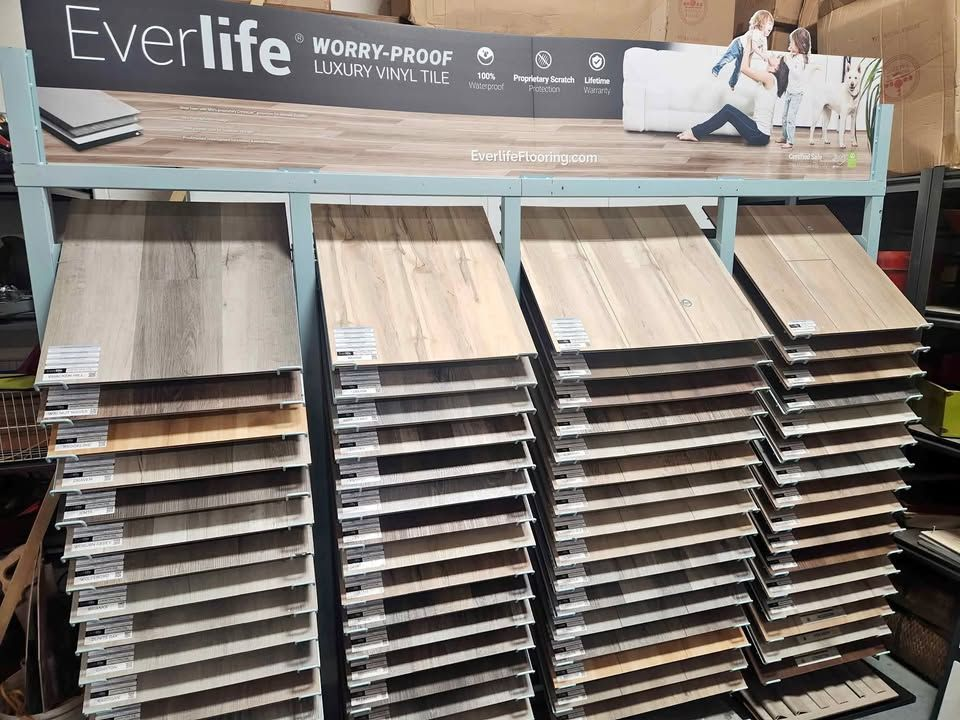
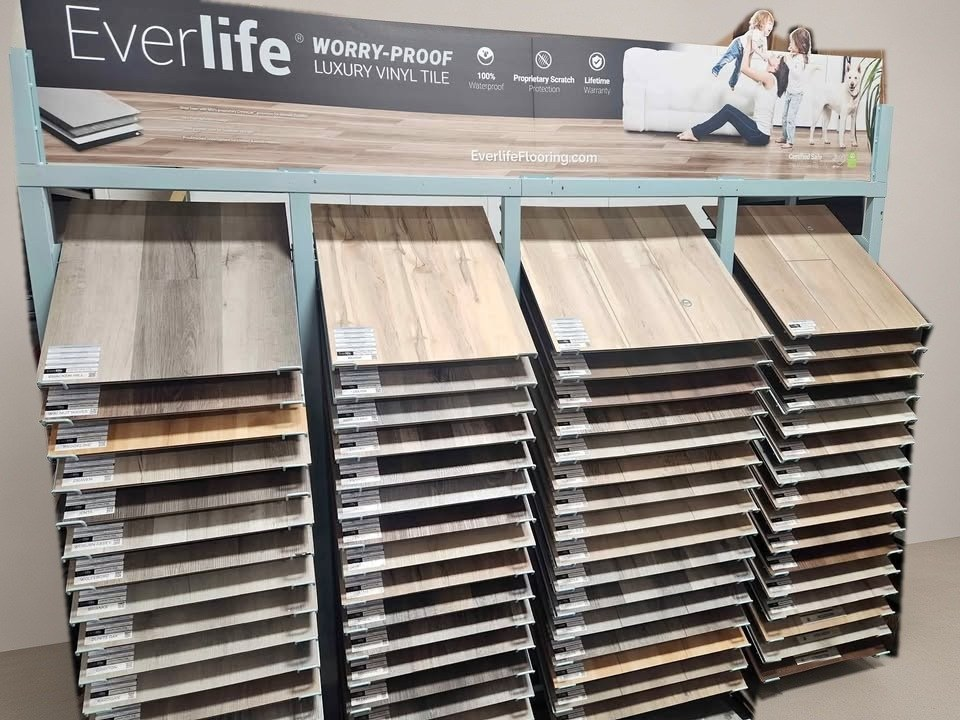
Use Greg-approved cleaned Everlife sample-rack photos on 5 LVP items

Changed region(s): [[0.2188, 0.0, 1.0, 1.0], [0.0, 0.0611, 0.0938, 1.0]]

diff --git a/catalog.html b/catalog.html
@@ -1923,7 +1923,7 @@ Nampa
 Check ahead for hours
 Text or call 208-606-0899</div><div class="more"><a href="#item-1087156237107500" data-i="0"><img src="1087156237107500-1.jpg" alt="LVP Flooring 22mil/20mil/12mil SPC Options - Starting from $2.59/sqft - Pad Attached w/ Warranty, photo 1" loading="lazy"></a><a href="#item-1087156237107500" data-i="1"><img src="1087156237107500-2.jpg" alt="LVP Flooring 22mil/20mil/12mil SPC Options - Starting from $2.59/sqft - Pad Attached w/ Warranty, photo 2" loading="lazy"></a><a href="#item-1087156237107500" data-i="2"><img src="1087156237107500-3.jpg" alt="LVP Flooring 22mil/20mil/12mil SPC Options - Starting from $2.59/sqft - Pad Attached w/ Warranty, photo 3" loading="lazy"></a><a href="#item-1087156237107500" data-i="3"><img src="1087156237107500-4.jpg" alt="LVP Flooring 22mil/20mil/12mil SPC Options - Starting from $2.59/sqft - Pad Attached w/ Warranty, photo 4" loading="lazy"></a></div></details>
 <div class="acts"><a class="b call" href="tel:+12086060899">Call</a><a class="b txt" href="sms:+12086060899">Text</a><a class="b fb" href="https://www.facebook.com/marketplace/item/1087156237107500/" target="_blank" rel="noopener">View on Facebook</a></div>
-</div></article><article class="item" id="item-1625727919130287" data-av="special_order" data-q="so" data-p="2.85" data-t="1" data-ph="1625727919130287-1.jpg,1625727919130287-2.jpg,1625727919130287-3.jpg,1625727919130287-4.jpg" data-s="prescott &quot;fauna&quot; lvp flooring - 6.5mm/20mil ($2.85/sqft) pad attached - 100% waterproof flooring $2.85/sqft, greater than 3000sqft available
+</div></article><article class="item" id="item-1625727919130287" data-av="special_order" data-q="so" data-p="2.85" data-t="1" data-ph="1625727919130287-1.jpg,1625727919130287-2.jpg,1625727919130287-3.jpg,1625727919130287-4.jpg,everlife-rack-B-clean.jpg" data-s="prescott &quot;fauna&quot; lvp flooring - 6.5mm/20mil ($2.85/sqft) pad attached - 100% waterproof flooring $2.85/sqft, greater than 3000sqft available
 prescott &quot;fauna&quot; 
 7&quot;x48&quot;, 6.5mm thick, 20mil wearlayer, attached ixpe pad, stone polymer composite (spc) construction 
 waterproof💦 kid proof🧒 pet friendly🐾 
@@ -1937,7 +1937,7 @@ check ahead for hours
 text or call 208-606-0899
 
 manufacturer: msi. msi is one of north america&#x27;s leading flooring suppliers, in business since 1975. ">
-<a class="ph" href="#item-1625727919130287" aria-label="See photos and details"><img src="1625727919130287-1t.jpg" alt="Prescott &quot;Fauna&quot; LVP Flooring - 6.5mm/20mil ($2.85/sqft) Pad Attached - 100% Waterproof" loading="lazy" width="400" height="300"><span class="pcount">4 photos</span><span class="tag special_order">Special order</span></a>
+<a class="ph" href="#item-1625727919130287" aria-label="See photos and details"><img src="1625727919130287-1t.jpg" alt="Prescott &quot;Fauna&quot; LVP Flooring - 6.5mm/20mil ($2.85/sqft) Pad Attached - 100% Waterproof" loading="lazy" width="400" height="300"><span class="pcount">5 photos</span><span class="tag special_order">Special order</span></a>
 <div class="body"><h3 class="gopen">Prescott &quot;Fauna&quot; LVP Flooring - 6.5mm/20mil ($2.85/sqft) Pad Attached - 100% Waterproof</h3>
 <div class="price">$2.85 <span class="u">/ sq ft</span></div><div class="qb so">Special order, 3,000+ sq ft available</div><div class="mfr">Manufacturer: <b>MSI</b></div>
 <p class="ex">$2.85/sqft, greater than 3000sqft available · Prescott &quot;Fauna&quot; · 7&quot;x48&quot;, 6.5mm thick, 20mil wearlayer, attached IXPE pad, stone polymer composite…</p>
@@ -1954,7 +1954,7 @@ Nampa
 Check ahead for hours
 Text or call 208-606-0899
 
-Manufacturer: MSI. MSI is one of North America&#x27;s leading flooring suppliers, in business since 1975.</div><div class="more"><a href="#item-1625727919130287" data-i="0"><img src="1625727919130287-1.jpg" alt="Prescott &quot;Fauna&quot; LVP Flooring - 6.5mm/20mil ($2.85/sqft) Pad Attached - 100% Waterproof, photo 1" loading="lazy"></a><a href="#item-1625727919130287" data-i="1"><img src="1625727919130287-2.jpg" alt="Prescott &quot;Fauna&quot; LVP Flooring - 6.5mm/20mil ($2.85/sqft) Pad Attached - 100% Waterproof, photo 2" loading="lazy"></a><a href="#item-1625727919130287" data-i="2"><img src="1625727919130287-3.jpg" alt="Prescott &quot;Fauna&quot; LVP Flooring - 6.5mm/20mil ($2.85/sqft) Pad Attached - 100% Waterproof, photo 3" loading="lazy"></a><a href="#item-1625727919130287" data-i="3"><img src="1625727919130287-4.jpg" alt="Prescott &quot;Fauna&quot; LVP Flooring - 6.5mm/20mil ($2.85/sqft) Pad Attached - 100% Waterproof, photo 4" loading="lazy"></a></div></details>
+Manufacturer: MSI. MSI is one of North America&#x27;s leading flooring suppliers, in business since 1975.</div><div class="more"><a href="#item-1625727919130287" data-i="0"><img src="1625727919130287-1.jpg" alt="Prescott &quot;Fauna&quot; LVP Flooring - 6.5mm/20mil ($2.85/sqft) Pad Attached - 100% Waterproof, photo 1" loading="lazy"></a><a href="#item-1625727919130287" data-i="1"><img src="1625727919130287-2.jpg" alt="Prescott &quot;Fauna&quot; LVP Flooring - 6.5mm/20mil ($2.85/sqft) Pad Attached - 100% Waterproof, photo 2" loading="lazy"></a><a href="#item-1625727919130287" data-i="2"><img src="1625727919130287-3.jpg" alt="Prescott &quot;Fauna&quot; LVP Flooring - 6.5mm/20mil ($2.85/sqft) Pad Attached - 100% Waterproof, photo 3" loading="lazy"></a><a href="#item-1625727919130287" data-i="3"><img src="1625727919130287-4.jpg" alt="Prescott &quot;Fauna&quot; LVP Flooring - 6.5mm/20mil ($2.85/sqft) Pad Attached - 100% Waterproof, photo 4" loading="lazy"></a><a href="#item-1625727919130287" data-i="4"><img src="everlife-rack-B-clean.jpg" alt="Prescott &quot;Fauna&quot; LVP Flooring - 6.5mm/20mil ($2.85/sqft) Pad Attached - 100% Waterproof, photo 5" loading="lazy"></a></div></details>
 <div class="acts"><a class="b call" href="tel:+12086060899">Call</a><a class="b txt" href="sms:+12086060899">Text</a><a class="b fb" href="https://www.facebook.com/marketplace/item/1625727919130287/" target="_blank" rel="noopener">View on Facebook</a></div>
 </div></article><article class="item" id="item-1725865535300365" data-av="special_order" data-q="so" data-p="2.59" data-t="1" data-ph="1725865535300365-1.jpg,1725865535300365-2.jpg,1725865535300365-3.jpg" data-v="v-1725865535300365.mp4" data-s="everlife worry-proof luxury vinyl flooring 7x48 5mm/12mil cyrus collection lvp lvt ($2.59/sqft) flooring $2.59/sqft for 5mm/12mil
 $2.85/sqft for 6.5mm/20mil
@@ -2026,7 +2026,7 @@ This flooring is 100% waterproof and backed by a lifetime residential warranty f
 
 Manufacturer: MSI. MSI is one of North America&#x27;s leading flooring suppliers, in business since 1975.</div><div class="more"><a href="#item-1377741024516244" data-i="0"><img src="1377741024516244-1.jpg" alt="&quot;Brookline&quot; - Everlife Cyrus LVP Flooring - 7x48 - 5mm/12mil - Pad Attached - $2.59/sqft, photo 1" loading="lazy"></a><a href="#item-1377741024516244" data-i="1"><img src="1377741024516244-2.jpg" alt="&quot;Brookline&quot; - Everlife Cyrus LVP Flooring - 7x48 - 5mm/12mil - Pad Attached - $2.59/sqft, photo 2" loading="lazy"></a><a href="#item-1377741024516244" data-i="2"><img src="1377741024516244-3.jpg" alt="&quot;Brookline&quot; - Everlife Cyrus LVP Flooring - 7x48 - 5mm/12mil - Pad Attached - $2.59/sqft, photo 3" loading="lazy"></a><a href="#item-1377741024516244" data-i="3"><img src="1377741024516244-4.jpg" alt="&quot;Brookline&quot; - Everlife Cyrus LVP Flooring - 7x48 - 5mm/12mil - Pad Attached - $2.59/sqft, photo 4" loading="lazy"></a></div></details>
 <div class="acts"><a class="b call" href="tel:+12086060899">Call</a><a class="b txt" href="sms:+12086060899">Text</a><a class="b fb" href="https://www.facebook.com/marketplace/item/1377741024516244/" target="_blank" rel="noopener">View on Facebook</a></div>
-</div></article><article class="item" id="item-1067900742606296" data-av="special_order" data-q="so" data-p="2.59" data-t="1" data-ph="1067900742606296-1.jpg,1067900742606296-2.jpg,1067900742606296-3.jpg,1067900742606296-4.jpg" data-s="&quot;walnut waves&quot; - lvp flooring - msi cyrus collection - 7x48 - pad attached - $2.59/sqft luxury vinyl flooring $2.59/sqft, 7x48 rigid core plank, 5mm, 12mil, 1mm ixpe attached pad
+</div></article><article class="item" id="item-1067900742606296" data-av="special_order" data-q="so" data-p="2.59" data-t="1" data-ph="1067900742606296-1.jpg,1067900742606296-2.jpg,1067900742606296-3.jpg,1067900742606296-4.jpg,everlife-rack-C-clean.jpg" data-s="&quot;walnut waves&quot; - lvp flooring - msi cyrus collection - 7x48 - pad attached - $2.59/sqft luxury vinyl flooring $2.59/sqft, 7x48 rigid core plank, 5mm, 12mil, 1mm ixpe attached pad
 
 other colors and styles available.
 
@@ -2039,7 +2039,7 @@ text or call 208-606-0899
 this flooring is 100% waterproof and backed by a lifetime residential warranty for added peace of mind. as part of the cyrus collection, it features an msi exclusive crystalux™ protection layer, providing durability and longevity, protecting against everyday wear, allowing floors to stay beautiful and easy to maintain. with “no acclimation” technology, this rigid core flooring allows for buy today, install today convenience.
 
 manufacturer: msi. msi is one of north america&#x27;s leading flooring suppliers, in business since 1975. ">
-<a class="ph" href="#item-1067900742606296" aria-label="See photos and details"><img src="1067900742606296-1t.jpg" alt="&quot;Walnut Waves&quot; - LVP Flooring - MSI Cyrus Collection - 7x48 - Pad Attached - $2.59/sqft Luxury Vinyl" loading="lazy" width="400" height="300"><span class="pcount">4 photos</span><span class="tag special_order">Special order</span></a>
+<a class="ph" href="#item-1067900742606296" aria-label="See photos and details"><img src="1067900742606296-1t.jpg" alt="&quot;Walnut Waves&quot; - LVP Flooring - MSI Cyrus Collection - 7x48 - Pad Attached - $2.59/sqft Luxury Vinyl" loading="lazy" width="400" height="300"><span class="pcount">5 photos</span><span class="tag special_order">Special order</span></a>
 <div class="body"><h3 class="gopen">&quot;Walnut Waves&quot; - LVP Flooring - MSI Cyrus Collection - 7x48 - Pad Attached - $2.59/sqft Luxury Vinyl</h3>
 <div class="price">$2.59 <span class="u">/ sq ft</span></div><div class="qb so">Special order, large quantities available</div><div class="mfr">Manufacturer: <b>MSI</b></div>
 <p class="ex">$2.59/sqft, 7x48 rigid core plank, 5mm, 12mil, 1mm IXPE attached pad · Other colors and styles available. · This flooring is 100% waterproof and…</p>
@@ -2055,9 +2055,9 @@ Text or call 208-606-0899
 
 This flooring is 100% waterproof and backed by a lifetime residential warranty for added peace of mind. As part of the Cyrus Collection, it features an MSI exclusive CrystaLux™ protection layer, providing durability and longevity, protecting against everyday wear, allowing floors to stay beautiful and easy to maintain. With “no acclimation” technology, this rigid core flooring allows for buy today, install today convenience.
 
-Manufacturer: MSI. MSI is one of North America&#x27;s leading flooring suppliers, in business since 1975.</div><div class="more"><a href="#item-1067900742606296" data-i="0"><img src="1067900742606296-1.jpg" alt="&quot;Walnut Waves&quot; - LVP Flooring - MSI Cyrus Collection - 7x48 - Pad Attached - $2.59/sqft Luxury Vinyl, photo 1" loading="lazy"></a><a href="#item-1067900742606296" data-i="1"><img src="1067900742606296-2.jpg" alt="&quot;Walnut Waves&quot; - LVP Flooring - MSI Cyrus Collection - 7x48 - Pad Attached - $2.59/sqft Luxury Vinyl, photo 2" loading="lazy"></a><a href="#item-1067900742606296" data-i="2"><img src="1067900742606296-3.jpg" alt="&quot;Walnut Waves&quot; - LVP Flooring - MSI Cyrus Collection - 7x48 - Pad Attached - $2.59/sqft Luxury Vinyl, photo 3" loading="lazy"></a><a href="#item-1067900742606296" data-i="3"><img src="1067900742606296-4.jpg" alt="&quot;Walnut Waves&quot; - LVP Flooring - MSI Cyrus Collection - 7x48 - Pad Attached - $2.59/sqft Luxury Vinyl, photo 4" loading="lazy"></a></div></details>
+Manufacturer: MSI. MSI is one of North America&#x27;s leading flooring suppliers, in business since 1975.</div><div class="more"><a href="#item-1067900742606296" data-i="0"><img src="1067900742606296-1.jpg" alt="&quot;Walnut Waves&quot; - LVP Flooring - MSI Cyrus Collection - 7x48 - Pad Attached - $2.59/sqft Luxury Vinyl, photo 1" loading="lazy"></a><a href="#item-1067900742606296" data-i="1"><img src="1067900742606296-2.jpg" alt="&quot;Walnut Waves&quot; - LVP Flooring - MSI Cyrus Collection - 7x48 - Pad Attached - $2.59/sqft Luxury Vinyl, photo 2" loading="lazy"></a><a href="#item-1067900742606296" data-i="2"><img src="1067900742606296-3.jpg" alt="&quot;Walnut Waves&quot; - LVP Flooring - MSI Cyrus Collection - 7x48 - Pad Attached - $2.59/sqft Luxury Vinyl, photo 3" loading="lazy"></a><a href="#item-1067900742606296" data-i="3"><img src="1067900742606296-4.jpg" alt="&quot;Walnut Waves&quot; - LVP Flooring - MSI Cyrus Collection - 7x48 - Pad Attached - $2.59/sqft Luxury Vinyl, photo 4" loading="lazy"></a><a href="#item-1067900742606296" data-i="4"><img src="everlife-rack-C-clean.jpg" alt="&quot;Walnut Waves&quot; - LVP Flooring - MSI Cyrus Collection - 7x48 - Pad Attached - $2.59/sqft Luxury Vinyl, photo 5" loading="lazy"></a></div></details>
 <div class="acts"><a class="b call" href="tel:+12086060899">Call</a><a class="b txt" href="sms:+12086060899">Text</a><a class="b fb" href="https://www.facebook.com/marketplace/item/1067900742606296/" target="_blank" rel="noopener">View on Facebook</a></div>
-</div></article><article class="item" id="item-1057389690126319" data-av="special_order" data-q="so" data-p="2.59" data-t="1" data-ph="1057389690126319-1.jpg,1057389690126319-2.jpg,1057389690126319-3.jpg,1057389690126319-4.jpg" data-s="&quot;bracken hill&quot; - lvp flooring - msi cyrus collection - 7x48 - pad attached - $2.59/sqft luxury vinyl flooring $2.59/sqft, 7x48 rigid core plank, 5mm thick, 12mil wearlayer with 1mm ixpe attached pad
+</div></article><article class="item" id="item-1057389690126319" data-av="special_order" data-q="so" data-p="2.59" data-t="1" data-ph="1057389690126319-1.jpg,1057389690126319-2.jpg,1057389690126319-3.jpg,1057389690126319-4.jpg,everlife-rack-C-clean.jpg" data-s="&quot;bracken hill&quot; - lvp flooring - msi cyrus collection - 7x48 - pad attached - $2.59/sqft luxury vinyl flooring $2.59/sqft, 7x48 rigid core plank, 5mm thick, 12mil wearlayer with 1mm ixpe attached pad
 
 other colors and styles available.
 
@@ -2070,7 +2070,7 @@ text or call 208-606-0899
 delivery available.
 
 manufacturer: msi. msi is one of north america&#x27;s leading flooring suppliers, in business since 1975. ">
-<a class="ph" href="#item-1057389690126319" aria-label="See photos and details"><img src="1057389690126319-1t.jpg" alt="&quot;Bracken Hill&quot; - LVP Flooring - MSI Cyrus Collection - 7x48 - Pad Attached - $2.59/sqft Luxury Vinyl" loading="lazy" width="400" height="300"><span class="pcount">4 photos</span><span class="tag special_order">Special order</span></a>
+<a class="ph" href="#item-1057389690126319" aria-label="See photos and details"><img src="1057389690126319-1t.jpg" alt="&quot;Bracken Hill&quot; - LVP Flooring - MSI Cyrus Collection - 7x48 - Pad Attached - $2.59/sqft Luxury Vinyl" loading="lazy" width="400" height="300"><span class="pcount">5 photos</span><span class="tag special_order">Special order</span></a>
 <div class="body"><h3 class="gopen">&quot;Bracken Hill&quot; - LVP Flooring - MSI Cyrus Collection - 7x48 - Pad Attached - $2.59/sqft Luxury Vinyl</h3>
 <div class="price">$2.59 <span class="u">/ sq ft</span></div><div class="qb so">Special order, large quantities available</div><div class="mfr">Manufacturer: <b>MSI</b></div>
 <p class="ex">$2.59/sqft, 7x48 rigid core plank, 5mm thick, 12mil wearlayer with 1mm IXPE attached pad · Other colors and styles available. · Manufacturer: MSI.…</p>
@@ -2086,7 +2086,7 @@ Text or call 208-606-0899
 
 Delivery available.
 
-Manufacturer: MSI. MSI is one of North America&#x27;s leading flooring suppliers, in business since 1975.</div><div class="more"><a href="#item-1057389690126319" data-i="0"><img src="1057389690126319-1.jpg" alt="&quot;Bracken Hill&quot; - LVP Flooring - MSI Cyrus Collection - 7x48 - Pad Attached - $2.59/sqft Luxury Vinyl, photo 1" loading="lazy"></a><a href="#item-1057389690126319" data-i="1"><img src="1057389690126319-2.jpg" alt="&quot;Bracken Hill&quot; - LVP Flooring - MSI Cyrus Collection - 7x48 - Pad Attached - $2.59/sqft Luxury Vinyl, photo 2" loading="lazy"></a><a href="#item-1057389690126319" data-i="2"><img src="1057389690126319-3.jpg" alt="&quot;Bracken Hill&quot; - LVP Flooring - MSI Cyrus Collection - 7x48 - Pad Attached - $2.59/sqft Luxury Vinyl, photo 3" loading="lazy"></a><a href="#item-1057389690126319" data-i="3"><img src="1057389690126319-4.jpg" alt="&quot;Bracken Hill&quot; - LVP Flooring - MSI Cyrus Collection - 7x48 - Pad Attached - $2.59/sqft Luxury Vinyl, photo 4" loading="lazy"></a></div></details>
+Manufacturer: MSI. MSI is one of North America&#x27;s leading flooring suppliers, in business since 1975.</div><div class="more"><a href="#item-1057389690126319" data-i="0"><img src="1057389690126319-1.jpg" alt="&quot;Bracken Hill&quot; - LVP Flooring - MSI Cyrus Collection - 7x48 - Pad Attached - $2.59/sqft Luxury Vinyl, photo 1" loading="lazy"></a><a href="#item-1057389690126319" data-i="1"><img src="1057389690126319-2.jpg" alt="&quot;Bracken Hill&quot; - LVP Flooring - MSI Cyrus Collection - 7x48 - Pad Attached - $2.59/sqft Luxury Vinyl, photo 2" loading="lazy"></a><a href="#item-1057389690126319" data-i="2"><img src="1057389690126319-3.jpg" alt="&quot;Bracken Hill&quot; - LVP Flooring - MSI Cyrus Collection - 7x48 - Pad Attached - $2.59/sqft Luxury Vinyl, photo 3" loading="lazy"></a><a href="#item-1057389690126319" data-i="3"><img src="1057389690126319-4.jpg" alt="&quot;Bracken Hill&quot; - LVP Flooring - MSI Cyrus Collection - 7x48 - Pad Attached - $2.59/sqft Luxury Vinyl, photo 4" loading="lazy"></a><a href="#item-1057389690126319" data-i="4"><img src="everlife-rack-C-clean.jpg" alt="&quot;Bracken Hill&quot; - LVP Flooring - MSI Cyrus Collection - 7x48 - Pad Attached - $2.59/sqft Luxury Vinyl, photo 5" loading="lazy"></a></div></details>
 <div class="acts"><a class="b call" href="tel:+12086060899">Call</a><a class="b txt" href="sms:+12086060899">Text</a><a class="b fb" href="https://www.facebook.com/marketplace/item/1057389690126319/" target="_blank" rel="noopener">View on Facebook</a></div>
 </div></article><article class="item" id="item-1485737350056948" data-av="special_order" data-q="so" data-p="2.99" data-t="2" data-ph="1485737350056948-1.jpg,1485737350056948-2.jpg,1485737350056948-3.jpg,1485737350056948-4.jpg" data-s="10mm laminate flooring &quot;emridge&quot; 100% waterproof - super durable hybrid ridgid core ($2.99/sqft) lvp flooring $2.99/sqft, 3000+ sqft available. direct from manufacturer&#x27;s warehouse. pad attached 100% waterproof laminate with warranty! 
 
